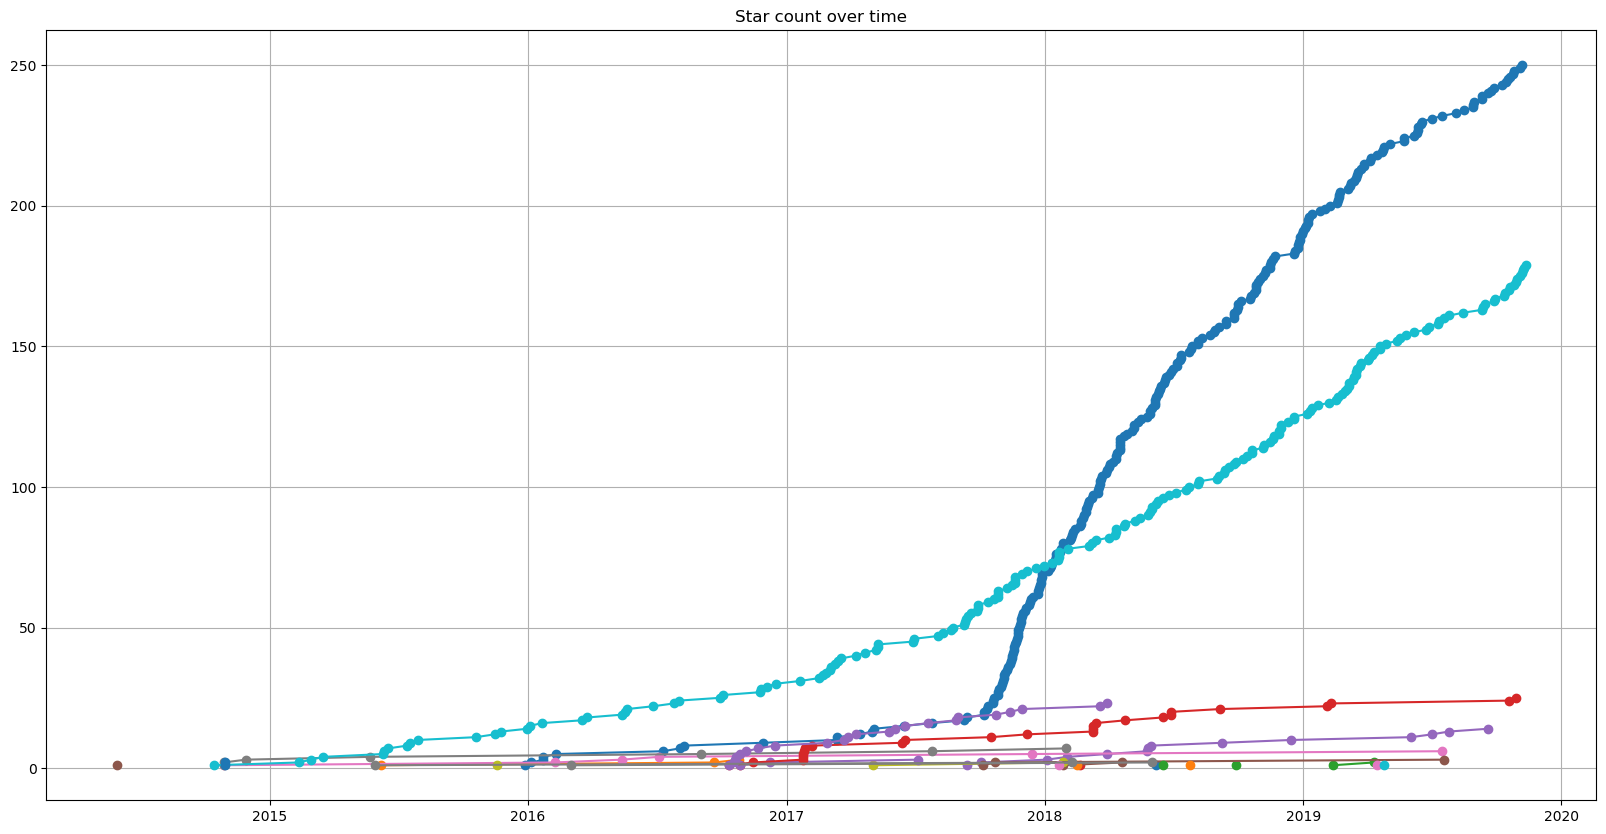
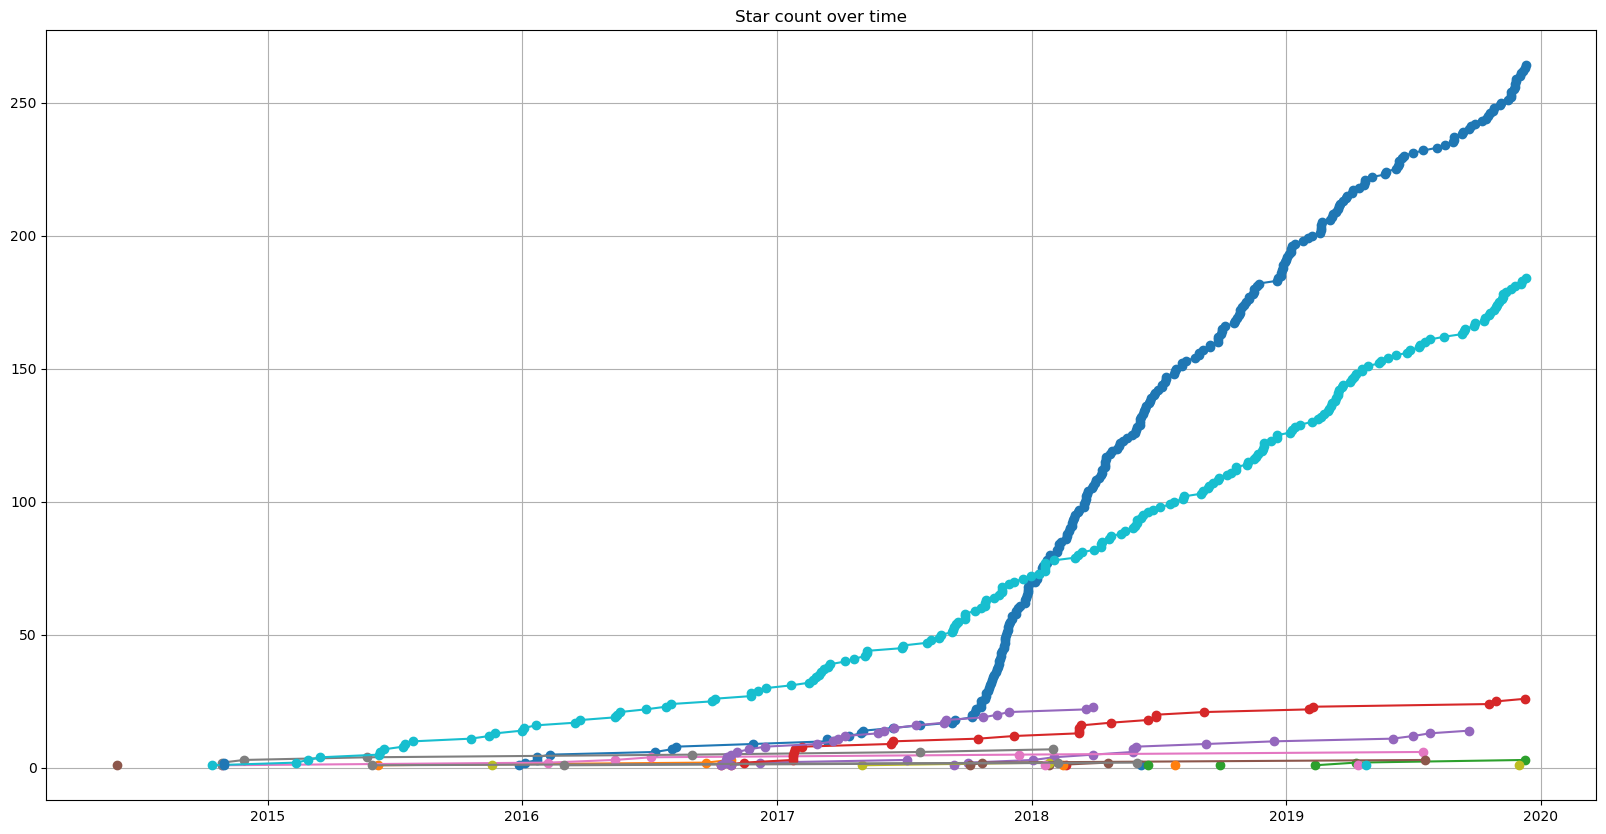
update

diff --git a/README.md b/README.md
@@ -3,7 +3,7 @@
 
 ![star plot](https://raw.github.com/FabriceSalvaire/github-map/master/star-plots/all.png)
 
-Overall stars: 537 :star:
+Overall stars: 559 :star:
 
 ## Python Packages
 
@@ -45,17 +45,17 @@ Overall stars: 537 :star:
 
 ## Python Tools for Developers
 
-* [CodeReview](https://github.com/FabriceSalvaire/CodeReview) 250 :star:</br>
+* [CodeReview](https://github.com/FabriceSalvaire/CodeReview) 264 :star:</br>
 
    CodeReview is a Git GUI tool to perform code review (Diff Viewer) written in Python3 and Qt5.
 
-   Updated on 2019-11-08
+   Updated on 2019-12-10
 
 * [github-map](https://github.com/FabriceSalvaire/github-map)
 
    A summary of my projects on Github (using API and Python)
 
-   Updated on 2019-08-19
+   Updated on 2019-11-12
 
 * [python-memo](https://github.com/FabriceSalvaire/python-memo)
 
@@ -181,11 +181,11 @@ Overall stars: 537 :star:
 
 ## Python for Electronic
 
-* [PySpice](https://github.com/FabriceSalvaire/PySpice) 179 :star:</br>
+* [PySpice](https://github.com/FabriceSalvaire/PySpice) 184 :star:</br>
 
    Simulate electronic circuit using Python and the Ngspice / Xyce simulators
 
-   Updated on 2019-11-11
+   Updated on 2019-12-10
 
 * [PyCpuSimulator](https://github.com/FabriceSalvaire/PyCpuSimulator) 2 :star:</br>
 
@@ -291,11 +291,17 @@ Overall stars: 537 :star:
 
    Updated on 2017-11-21
 
-* [book-browser](https://github.com/FabriceSalvaire/book-browser) 2 :star:</br>
+* [book-browser](https://github.com/FabriceSalvaire/book-browser) 3 :star:</br>
 
    An application to digitise and read books (Python3 Qt5 QML)
 
-   Updated on 2019-04-14
+   Updated on 2019-12-09
+
+* [squirrel](https://github.com/FabriceSalvaire/squirrel) 1 :star:</br>
+
+   An experimental PDF document manager. 
+
+   Updated on 2019-12-01
 
 * [biblio-data](https://github.com/FabriceSalvaire/biblio-data)
 
@@ -321,12 +327,6 @@ Overall stars: 537 :star:
 
    Updated on 2018-12-22
 
-* [squirrel](https://github.com/FabriceSalvaire/squirrel)
-
-   An experimental PDF document manager. 
-
-   Updated on 2019-02-28
-
 ## Python Outdated
 
 * [PyLibTiff](https://github.com/FabriceSalvaire/PyLibTiff)
@@ -351,11 +351,11 @@ Overall stars: 537 :star:
 
 ## Qt
 
-* [qt5-vector-graphic-shaders](https://github.com/FabriceSalvaire/qt5-vector-graphic-shaders) 25 :star:</br>
+* [qt5-vector-graphic-shaders](https://github.com/FabriceSalvaire/qt5-vector-graphic-shaders) 26 :star:</br>
 
    A Qt5 application to experiment vector graphic shaders
 
-   Updated on 2019-10-29
+   Updated on 2019-12-10
 
 ## MuPDF
 
